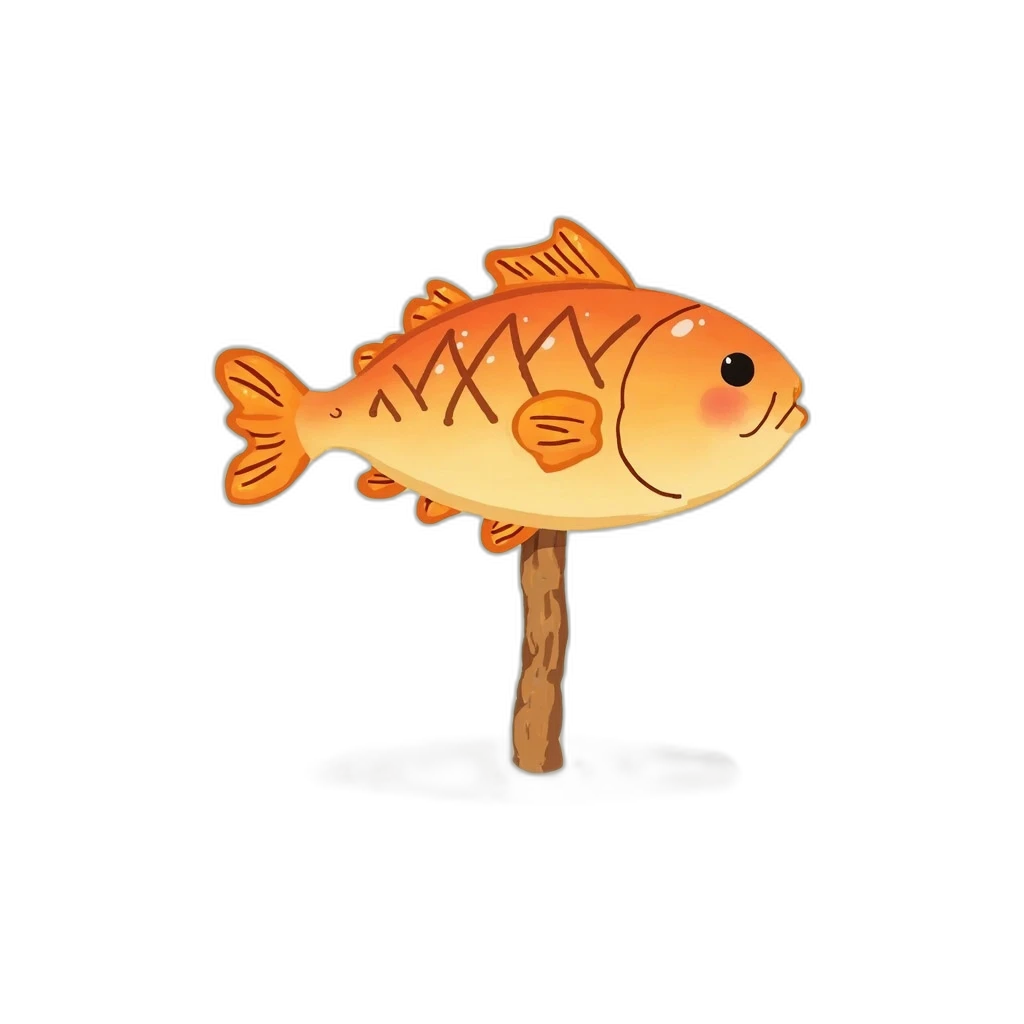
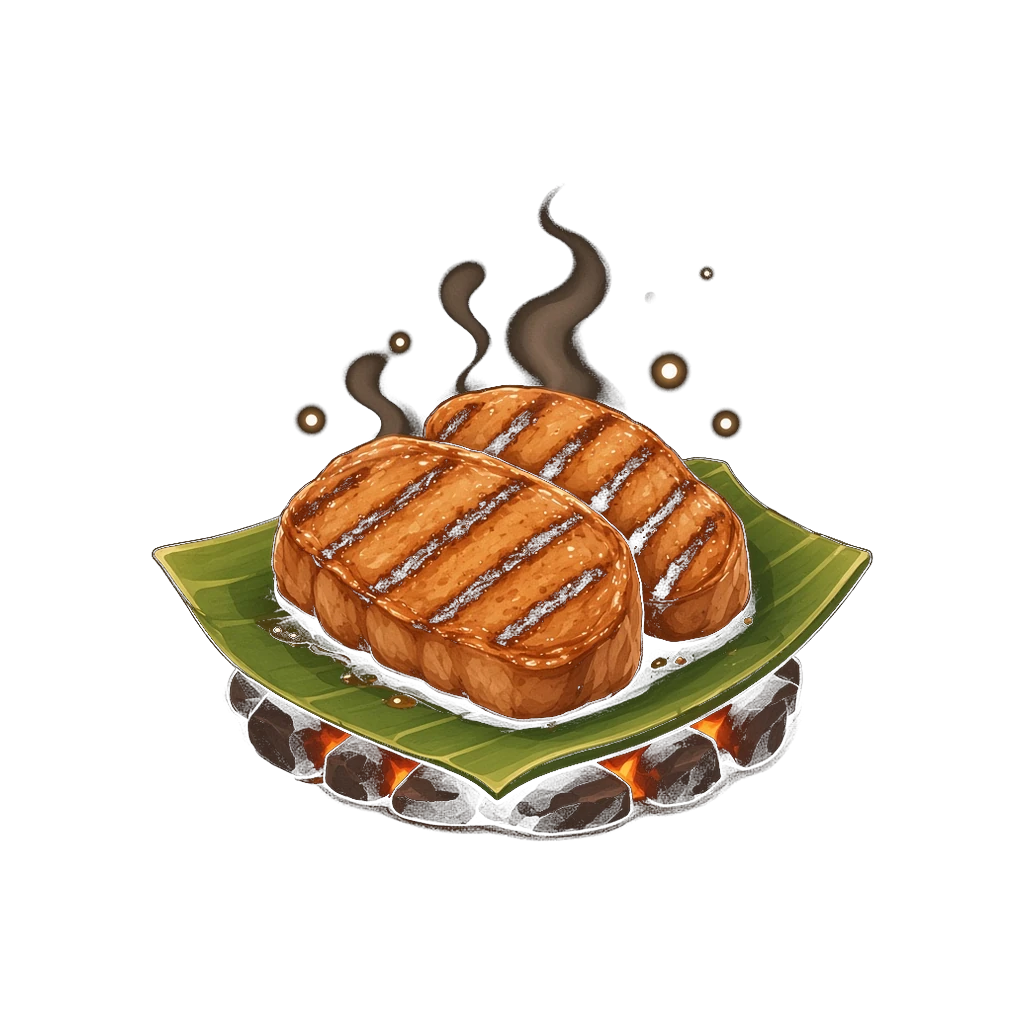
V2.0 UI审查修：food_4去重、主题插值、HUD手绘统一
- 重做 item_food_4.webp（炭烤椰排顶阶升级感，MD5 与 food_3 分离）
- 主题切换 750ms 色插值；夜主题沙色描边/半透明面板
- 资源条与建造需求改用手绘 WebP 链顶阶图
- 角标疏解；棋盘底预留目标条，去掉叠字滚动提示

Changed region(s): [[0.125, 0.1875, 0.875, 0.8438]]

diff --git a/js/render.js b/js/render.js
@@ -581,33 +581,37 @@
     // V1.9: 统计逻辑本身正确（countChain 每帧实时统计棋盘内该链物品总数）
     // 注意：① 该数字是「链总量」，建造消耗的是具体物品（如浮木×3），以建造页缺口为准；②「食物」=食物物品数，与顶栏饱食度(🍖 x/10)是两套概念
     // 增强：点击资源条 → 跳到建造页对照缺口
+    // V2.0 UI：资源条用手绘 WebP 链顶阶图，与棋盘同一套素材，减少 emoji 混搭
     var mergeN = Game.App.mergeHintCount ? Game.App.mergeHintCount() : 0;
-    var woodEm = Game.App.chainTopEm ? Game.App.chainTopEm('wood') : '\uD83E\uDEB5';
-    var foodEm = Game.App.chainTopEm ? Game.App.chainTopEm('food') : '\uD83E\uDD65';
-    var stoneEm = Game.App.chainTopEm ? Game.App.chainTopEm('stone') : '\uD83E\uDEA8';
+    var woodId = Game.App.chainTopId ? Game.App.chainTopId('wood') : 3;
+    var foodId = Game.App.chainTopId ? Game.App.chainTopId('food') : 14;
+    var stoneId = Game.App.chainTopId ? Game.App.chainTopId('stone') : 23;
     var resData = [
-      [woodEm + ' 木材', Game.App.countChain('wood'), C.fire, 'wood'],
-      [foodEm + ' 食物', Game.App.countChain('food'), C.fire, 'food'],
-      [stoneEm + ' 石料', Game.App.countChain('stone'), C.fire, 'stone']
+      ['木材', Game.App.countChain('wood'), C.fire, woodId],
+      ['食物', Game.App.countChain('food'), C.fire, foodId],
+      ['石料', Game.App.countChain('stone'), C.fire, stoneId]
     ];
     var gap = 6, rw = (W - 20 - gap * 2) / 3, ry = 106;
     for (var i = 0; i < 3; i++) {
       var rx = 10 + i * (rw + gap);
+      ctx.globalAlpha = (C._themeId === 'C') ? 0.92 : 1;
       ctx.fillStyle = C.resBg || '#FFFFFF';
       roundRect(ctx, rx, ry, rw, 34, 8);
       ctx.fill();
-      ctx.strokeStyle = C.wood;
+      ctx.strokeStyle = C.cellStroke || C.wood;
       ctx.lineWidth = 1.5;
       roundRect(ctx, rx, ry, rw, 34, 8);
       ctx.stroke();
+      ctx.globalAlpha = 1;
+      drawItemVisual(ctx, resData[i][3], rx + 4, ry + 3, 28, 28, { showName: false });
       ctx.fillStyle = C.ink;
       ctx.font = '11px sans-serif';
       ctx.textAlign = 'left';
       ctx.textBaseline = 'middle';
-      ctx.fillText(resData[i][0], rx + 6, ry + 12);
+      ctx.fillText(resData[i][0], rx + 34, ry + 12);
       ctx.fillStyle = C.wood;
       ctx.font = '8px sans-serif';
-      ctx.fillText('链合计', rx + 6, ry + 25);
+      ctx.fillText('链合计', rx + 34, ry + 25);
       ctx.fillStyle = resData[i][2];
       ctx.font = 'bold 14px sans-serif';
       ctx.textAlign = 'right';
@@ -616,7 +620,9 @@
     }
 
     // 棋盘面板（对应 .panel）- 改为 4 列，支持上下滚动
-    var py = 148, ph = H - 148 - 118;
+    // V2.0 UI：预留下方目标条空间，避免与棋盘底提示叠字
+    var ACTION_RESERVE = 136;
+    var py = 148, ph = H - 148 - ACTION_RESERVE;
     // 滚动状态：boardScrollY，默认 0，最大值为 (总行数-可视行数) * 行高
     var boardScrollY = Game.boardScrollY || 0;
     ctx.fillStyle = C.panelBg || '#FFFFFF';
@@ -628,7 +634,7 @@
     roundRect(ctx, 10, py, W - 20, ph, 12);
     ctx.clip();
 
-    ctx.strokeStyle = C.wood;
+    ctx.strokeStyle = C.cellStroke || C.wood;
     ctx.lineWidth = 2;
     roundRect(ctx, 10, py, W - 20, ph, 12);
     ctx.stroke();
@@ -707,25 +713,30 @@
         }
         var useFallbackName = !(Game.App && Game.App.isAssetOk && Game.App.isAssetOk(showId));
         drawItemVisual(ctx, showId, cx, cy, bw2, bh2, { showName: useFallbackName });
-        ctx.font = '8px sans-serif';
-        ctx.fillStyle = C.wood;
-        ctx.textAlign = 'right';
-        ctx.fillText('Lv' + it.lv, cx + bw2 - 3, cy + bh2 - 3);
-        // 可合成角标：同 id 达到 3 且有 next
+        // 可合成角标：同 id≥3 → 右上；Lv 左下，避免对角拥挤
+        var same = 0;
         if (it.next && Game.S) {
-          var same = 0;
           for (var si = 0; si < Game.S.space; si++) if (Game.S.board[si] === showId) same++;
-          if (same >= 3) {
-            ctx.fillStyle = C.fire;
-            ctx.beginPath();
-            ctx.arc(cx + 7, cy + 7, 5, 0, Math.PI * 2);
-            ctx.fill();
-            ctx.fillStyle = '#FFFFFF';
-            ctx.font = 'bold 7px sans-serif';
-            ctx.textAlign = 'center';
-            ctx.textBaseline = 'middle';
-            ctx.fillText('3', cx + 7, cy + 7);
-          }
+        }
+        var showMerge = same >= 3;
+        ctx.font = '7px sans-serif';
+        ctx.fillStyle = C.wood;
+        ctx.textAlign = 'left';
+        ctx.textBaseline = 'alphabetic';
+        ctx.fillText('Lv' + it.lv, cx + 3, cy + bh2 - 3);
+        if (showMerge) {
+          ctx.fillStyle = C.fire;
+          ctx.beginPath();
+          ctx.arc(cx + bw2 - 8, cy + 8, 6, 0, Math.PI * 2);
+          ctx.fill();
+          ctx.strokeStyle = 'rgba(255,255,255,0.85)';
+          ctx.lineWidth = 1;
+          ctx.stroke();
+          ctx.fillStyle = '#FFFFFF';
+          ctx.font = 'bold 8px sans-serif';
+          ctx.textAlign = 'center';
+          ctx.textBaseline = 'middle';
+          ctx.fillText('3', cx + bw2 - 8, cy + 8);
         }
       } else {
         ctx.fillStyle = C.emptyFill || C.paper;
@@ -758,35 +769,30 @@
       drawItemVisual(ctx, d.id, fx, fy, fw, fh, { showName: false });
       ctx.restore();
     }
-    // 空棋盘 / 可三合引导（画在面板剪裁内）
+    // 空棋盘 / 可三合引导（画在面板剪裁内；底边留空给目标条，避免叠字）
     if (used === 0 && !(Game.drag && Game.drag.id)) {
       ctx.fillStyle = C.wood;
       ctx.globalAlpha = 0.9;
       ctx.font = '12px sans-serif';
       ctx.textAlign = 'center';
       ctx.textBaseline = 'middle';
-      ctx.fillText('棋盘还空着 · 点下方「采集」获取物资', W / 2, py + ph * 0.45);
+      ctx.fillText('棋盘还空着 · 点下方「采集」获取物资', W / 2, py + ph * 0.42);
       ctx.font = '10px sans-serif';
-      ctx.fillText('三枚相同物品可拖近合成升级', W / 2, py + ph * 0.45 + 18);
+      ctx.fillText('三枚相同物品可拖近合成升级', W / 2, py + ph * 0.42 + 18);
       ctx.globalAlpha = 1;
     } else if (mergeN > 0 && !(Game.drag && Game.drag.id)) {
       ctx.fillStyle = C.fire;
       ctx.font = '9px sans-serif';
       ctx.textAlign = 'center';
-      ctx.fillText('\u2728 有 ' + mergeN + ' 种可三合：拖近同物后松手', W / 2, py + ph - 10);
+      ctx.textBaseline = 'middle';
+      ctx.fillText('\u2728 有 ' + mergeN + ' 种可三合：拖近同物后松手', W / 2, py + ph - 22);
     }
     ctx.restore(); // 结束剪裁
-
-    // 滚动提示（当可滚动时在底部显示）
-    if (canScroll) {
-      ctx.fillStyle = 'rgba(139,94,60,0.6)';
-      ctx.font = '9px sans-serif';
-      ctx.textAlign = 'center';
-      ctx.fillText(boardScrollY > 0 ? '\u25B2 上翻' : (totalRows > visibleRows ? '\u25BC 下翻' : ''), W / 2, py + ph - 6);
-    }
+    // 滚动仅靠右侧滚动条指示，去掉底边「上翻/下翻」文字，避免与目标条叠字
 
     // 操作按钮区：地点菜单 + 采集 + 漂流瓶
     var ay = H - 112;
+
     var zoneW = 76, gapA = 6;
     var restW = W - 20 - zoneW - gapA;
     var gatherW = restW * 0.58, bottleW = restW - gatherW - gapA;
@@ -799,18 +805,18 @@
     if (animating) gLabel = '\uD83C\uDFA3 采集中...';
     var timerTxt = Game.App.energyTimerText();
     if (timerTxt && !animating) gLabel += ' ' + timerTxt;
-    // V1.15: 目标提示条
+    // V1.15: 目标提示条（画在棋盘底与操作钮之间的预留带，避免叠字）
     if (Game.App.getGoalHint && Game.tab === 'board') {
       var goal = Game.App.getGoalHint();
       ctx.save();
       ctx.font = '10px sans-serif';
       ctx.textAlign = 'left';
       ctx.textBaseline = 'middle';
-      ctx.fillStyle = 'rgba(74,52,40,0.88)';
-      roundRect(ctx, 10, ay - 22, W - 20, 18, 8);
+      ctx.fillStyle = (C._themeId === 'C') ? 'rgba(30,53,69,0.92)' : 'rgba(74,52,40,0.88)';
+      roundRect(ctx, 10, ay - 24, W - 20, 18, 8);
       ctx.fill();
-      ctx.fillStyle = '#FAF1DD';
-      ctx.fillText(goal.length > 28 ? goal.slice(0, 28) + '\u2026' : goal, 18, ay - 13);
+      ctx.fillStyle = C.topText || '#FAF1DD';
+      ctx.fillText(goal.length > 28 ? goal.slice(0, 28) + '\u2026' : goal, 18, ay - 15);
       ctx.restore();
     }
     // 地点常驻按钮（点开切换，不耗体力）
@@ -1015,7 +1021,7 @@
           ctx.font = '10px sans-serif';
           ctx.fillText('效果：' + node.desc, 20, oy + 34);
 
-          // 资源需求
+          // 资源需求（手绘 WebP 小图标 + 数量，与棋盘统一风格）
           var nx = 20;
           var hasAllRes = true;
           var needMap = Game.App.getEffectiveNeed ? Game.App.getEffectiveNeed(node.need) : node.need;
@@ -1025,16 +1031,25 @@
             var rawNeed = node.need[id];
             var ok = have >= need;
             if (!ok) hasAllRes = false;
-            var itn = Game.DATA.ITEMS[id];
-            var label = (itn ? itn.em : '') + have + '/' + need;
-            if (rawNeed !== need) label += (need < rawNeed ? '\u2193' : '\u2191');
+            var bias = '';
+            if (rawNeed !== need) bias = (need < rawNeed ? '\u2193' : '\u2191');
+            var label = have + '/' + need + bias;
             ctx.font = '9px sans-serif';
-            var pw = ctx.measureText(label).width + 10;
-            ctx.fillStyle = ok ? C.okGreen : C.paper2;
-            roundRect(ctx, nx, oy + 42, pw, 16, 4);
+            var tw = ctx.measureText(label).width;
+            var pw = 18 + tw + 8;
+            ctx.fillStyle = ok ? C.okGreen : (C.paper2 || '#E8D6B0');
+            roundRect(ctx, nx, oy + 42, pw, 18, 4);
             ctx.fill();
+            ctx.strokeStyle = ok ? (C.leaf || '#6FA860') : (C.emptyStroke || C.paper3);
+            ctx.lineWidth = 1;
+            roundRect(ctx, nx, oy + 42, pw, 18, 4);
+            ctx.stroke();
+            drawItemVisual(ctx, +id, nx + 1, oy + 43, 16, 16, { showName: false });
             ctx.fillStyle = C.ink;
-            ctx.fillText(label, nx + 4, oy + 53);
+            ctx.font = '9px sans-serif';
+            ctx.textAlign = 'left';
+            ctx.textBaseline = 'middle';
+            ctx.fillText(label, nx + 18, oy + 51);
             nx += pw + 4;
           }
 

diff --git a/js/data.js b/js/data.js
@@ -475,11 +475,12 @@
     C: {
       id: 'C', name: '黄昏求生',
       palette: {
-        sea: '#1a3a4a', sand: '#2a4555', wood: '#C4A574', fire: '#E8763A',
-        leaf: '#6FA860', ink: '#FAF1DD', paper: '#1e3545', paper2: '#243848', paper3: '#4a6a7a',
+        sea: '#1a3a4a', sand: '#3a4a42', wood: '#C4A574', fire: '#E8763A',
+        leaf: '#6FA860', ink: '#FAF1DD', paper: '#1e3545', paper2: '#243848', paper3: '#6a7a68',
         seaDark: '#0a2a3a', seaDeep: '#061820',
-        panelBg: '#1e3545', cellStroke: '#E8763A', cellFill: '#2a4555',
-        emptyFill: '#152830', emptyStroke: '#4a6a7a', topText: '#FAF1DD', resBg: '#243848'
+        // 夜主题：面板半透明 + 沙色描边，与手绘 WebP 暖沙协调，避免整屏橙闪
+        panelBg: 'rgba(30,53,69,0.88)', cellStroke: '#C4A574', cellFill: '#3d4f48',
+        emptyFill: 'rgba(21,40,48,0.92)', emptyStroke: '#6a7a68', topText: '#FAF1DD', resBg: 'rgba(36,56,72,0.9)'
       }
     }
   };
@@ -493,15 +494,100 @@
     var id = themeIdByHour(d.getHours());
     return THEMES[id];
   }
-  function applyTheme(now) {
-    var t = getThemeInfo(now);
-    var p = t.palette;
+  // 主题色短过渡（切换时段时 lerp，避免整屏硬切）
+  var THEME_LERP_MS = 750;
+  var _themeLerp = { fromId: null, toId: null, t0: 0, fromPal: null, inited: false };
+
+  function _parseColor(s) {
+    s = String(s == null ? '' : s).trim();
+    if (!s) return { r: 0, g: 0, b: 0, a: 1 };
+    if (s.charAt(0) === '#') {
+      var h = s.slice(1);
+      if (h.length === 3) h = h.charAt(0) + h.charAt(0) + h.charAt(1) + h.charAt(1) + h.charAt(2) + h.charAt(2);
+      return { r: parseInt(h.slice(0, 2), 16) || 0, g: parseInt(h.slice(2, 4), 16) || 0, b: parseInt(h.slice(4, 6), 16) || 0, a: 1 };
+    }
+    var m = s.match(/rgba?\(\s*([0-9.]+)\s*,\s*([0-9.]+)\s*,\s*([0-9.]+)(?:\s*,\s*([0-9.]+))?\s*\)/i);
+    if (m) return { r: +m[1], g: +m[2], b: +m[3], a: m[4] != null ? +m[4] : 1 };
+    return { r: 0, g: 0, b: 0, a: 1 };
+  }
+  function _fmtColor(c) {
+    var r = Math.round(c.r), g = Math.round(c.g), b = Math.round(c.b);
+    if (c.a < 0.999) {
+      var a = Math.round(c.a * 1000) / 1000;
+      return 'rgba(' + r + ',' + g + ',' + b + ',' + a + ')';
+    }
+    function hx(n) { var s = n.toString(16); return s.length < 2 ? '0' + s : s; }
+    return '#' + hx(r) + hx(g) + hx(b);
+  }
+  function _lerpColor(a, b, t) {
+    var A = _parseColor(a), B = _parseColor(b);
+    return _fmtColor({
+      r: A.r + (B.r - A.r) * t,
+      g: A.g + (B.g - A.g) * t,
+      b: A.b + (B.b - A.b) * t,
+      a: A.a + (B.a - A.a) * t
+    });
+  }
+  function _snapPalette(pal) {
+    var out = {};
     for (var i = 0; i < THEME_PALETTE_KEYS.length; i++) {
       var k = THEME_PALETTE_KEYS[i];
-      if (p[k] != null) C[k] = p[k];
+      if (pal[k] != null) out[k] = pal[k];
+    }
+    return out;
+  }
+  function applyTheme(now) {
+    var d = now instanceof Date ? now : (now ? new Date(now) : new Date());
+    var ms = d.getTime();
+    var t = getThemeInfo(d);
+    if (!_themeLerp.inited) {
+      var p0 = t.palette;
+      for (var i0 = 0; i0 < THEME_PALETTE_KEYS.length; i0++) {
+        var k0 = THEME_PALETTE_KEYS[i0];
+        if (p0[k0] != null) C[k0] = p0[k0];
+      }
+      _themeLerp.fromId = t.id;
+      _themeLerp.toId = t.id;
+      _themeLerp.fromPal = _snapPalette(p0);
+      _themeLerp.t0 = ms;
+      _themeLerp.inited = true;
+      C._themeId = t.id;
+      C._themeName = t.name;
+      C._themeLerpU = 1;
+      return t;
+    }
+    if (t.id !== _themeLerp.toId) {
+      // 从当前已插值色起步，避免二次切换回跳
+      var cur = {};
+      for (var i1 = 0; i1 < THEME_PALETTE_KEYS.length; i1++) {
+        var k1 = THEME_PALETTE_KEYS[i1];
+        cur[k1] = C[k1];
+      }
+      _themeLerp.fromPal = cur;
+      _themeLerp.fromId = _themeLerp.toId;
+      _themeLerp.toId = t.id;
+      _themeLerp.t0 = ms;
+    }
+    var u = 1;
+    if (_themeLerp.fromId !== _themeLerp.toId) {
+      u = Math.min(1, Math.max(0, (ms - _themeLerp.t0) / THEME_LERP_MS));
+      u = u * u * (3 - 2 * u); // smoothstep
+      if (u >= 0.999) {
+        u = 1;
+        _themeLerp.fromId = _themeLerp.toId;
+        _themeLerp.fromPal = _snapPalette(THEMES[_themeLerp.toId].palette);
+      }
+    }
+    var target = THEMES[_themeLerp.toId].palette;
+    var from = _themeLerp.fromPal || target;
+    for (var i = 0; i < THEME_PALETTE_KEYS.length; i++) {
+      var k = THEME_PALETTE_KEYS[i];
+      if (target[k] == null) continue;
+      C[k] = u >= 1 ? target[k] : _lerpColor(from[k] != null ? from[k] : target[k], target[k], u);
     }
     C._themeId = t.id;
     C._themeName = t.name;
+    C._themeLerpU = u;
     return t;
   }
 

diff --git a/js/app.js b/js/app.js
@@ -2179,15 +2179,25 @@
     if (!a || Game.assetFailed && Game.assetFailed[id]) return false;
     return !!(a.complete && a.width);
   };
-  App.chainTopEm = function (chain) {
-    var best = null, bestLv = -1;
+  // 链顶阶物品 id（棋盘最高阶；空则回落该链顶级图，供 HUD WebP）
+  App.chainTopId = function (chain) {
+    var bestId = 0, bestLv = -1;
     for (var i = 0; i < S.space; i++) {
       var id = S.board[i];
       var it = id && D.ITEMS[id];
       if (!it || it.chain !== chain) continue;
-      if (it.lv > bestLv) { bestLv = it.lv; best = it; }
+      if (it.lv > bestLv) { bestLv = it.lv; bestId = id; }
     }
-    if (best) return best.em;
+    if (bestId) return bestId;
+    if (chain === 'wood') return 3;
+    if (chain === 'food') return 14;
+    if (chain === 'stone') return 23;
+    return 0;
+  };
+  App.chainTopEm = function (chain) {
+    var id = App.chainTopId(chain);
+    var it = id && D.ITEMS[id];
+    if (it) return it.em;
     if (chain === 'wood') return '\uD83E\uDEB5';
     if (chain === 'food') return '\uD83E\uDD65';
     if (chain === 'stone') return '\uD83E\uDEA8';

diff --git a/README.md b/README.md
@@ -64,7 +64,8 @@
   - 白天：材料需求 `×0.88`，原需求 ≥3 时至少 -1
   - 夜间：材料需求 `×1.12`，原需求 ≥2 时至少 +1；不足时提示「夜里费料，天亮再盖更稳」
   - 傍晚：常规消耗；建造页顶栏有时段提示，需求角标 ↓/↑
-- **素材 polish**：WebP `onerror` 打标 → emoji+短名兜底；空棋盘引导；可三合角标「3」；资源条显示链顶阶 emoji
+- **素材 polish**：WebP `onerror` 打标 → emoji+短名兜底；空棋盘引导；可三合角标「3」；资源条/建造需求用手绘 WebP 链顶阶图
+- **UI 审查修**：`food_4` 与 `food_3` 去重并重做顶阶升级感；主题切换 750ms 色插值；夜主题沙色描边/半透明面板；角标疏解与底栏叠字修复
 - **采集手感**：采集动画 ≈0.55s（≤0.6s）
 - **不做**：IAP、诱导分享
 
